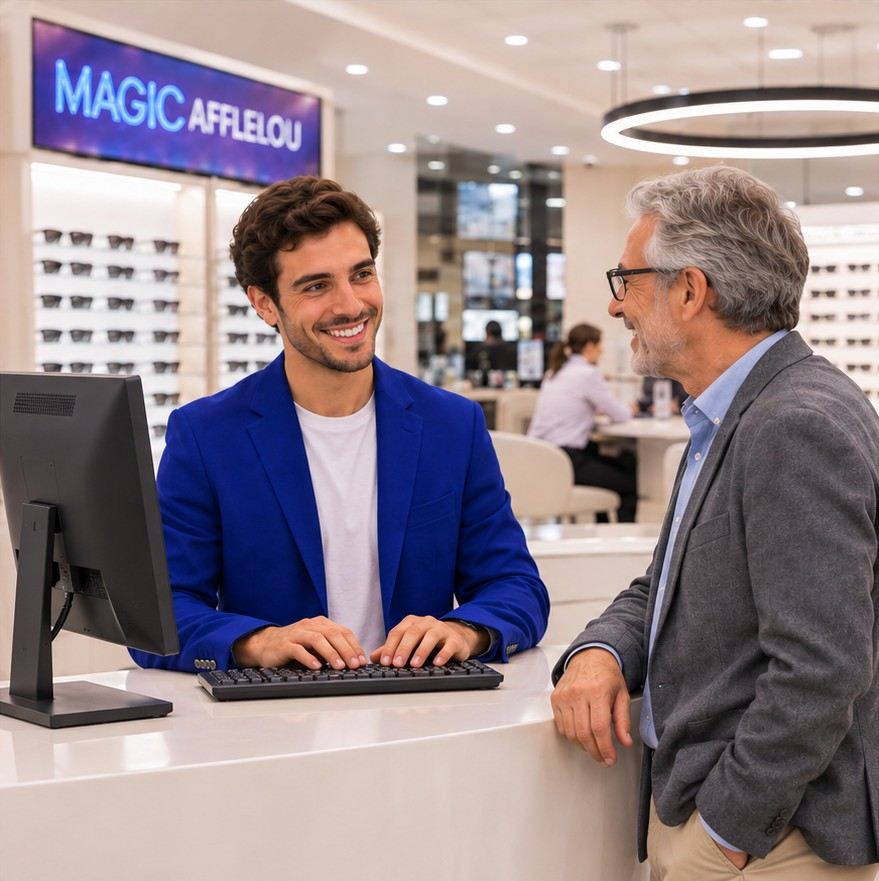
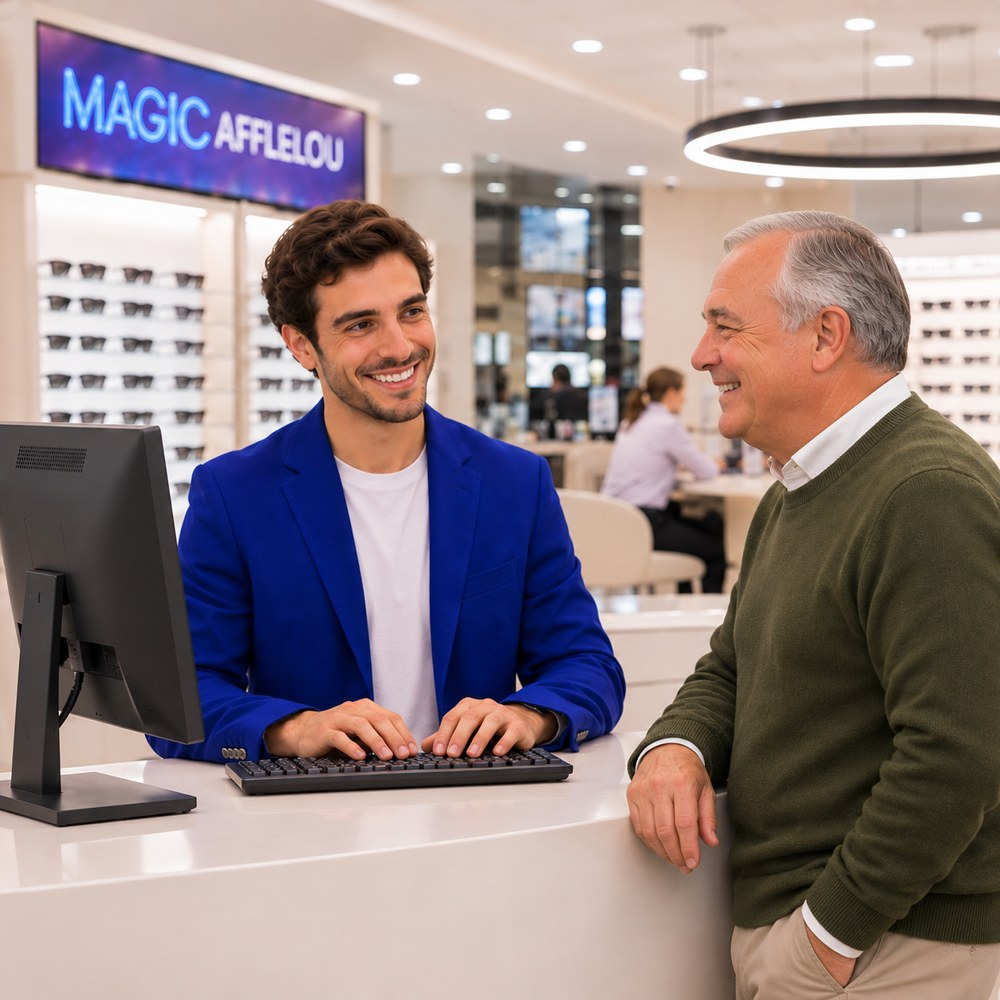
Formación: nuevo Luis en protagonistas y en caso A/B
Claude-Session: https://claude.ai/code/session_01VFvd8oGJFrwLEnSQBkLj55

diff --git a/formacion/index.html b/formacion/index.html
@@ -579,7 +579,7 @@ em,i,.pull,.ask,.verdict,.bigline,.q p,.qrbox b{font-style:normal!important;font
           <span class="bio"><span class="rol">Cliente</span><b>Pablo</b><span class="txt">Usuario de lentillas y padre de gemelos, también pequeños clientes.</span></span>
         </button>
         <button class="who" type="button" aria-pressed="false">
-          <img src="/formacion/img/p_luis.jpg" alt="Luis, con americana gris, gafas y barba blanca">
+          <img src="/formacion/img/p_luis.jpg" alt="Luis, con jersey verde y camisa blanca">
           <span class="nm">Luis</span>
           <span class="bio"><span class="rol">Vecino</span><b>Luis</b><span class="txt">Vecino y cliente de Audio.</span></span>
         </button>
